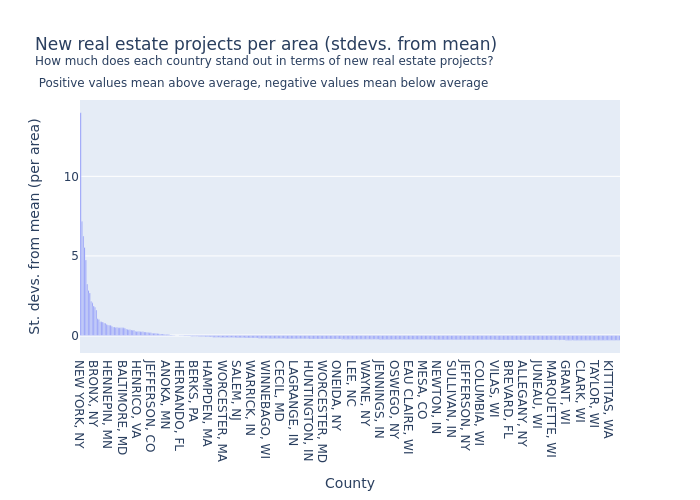
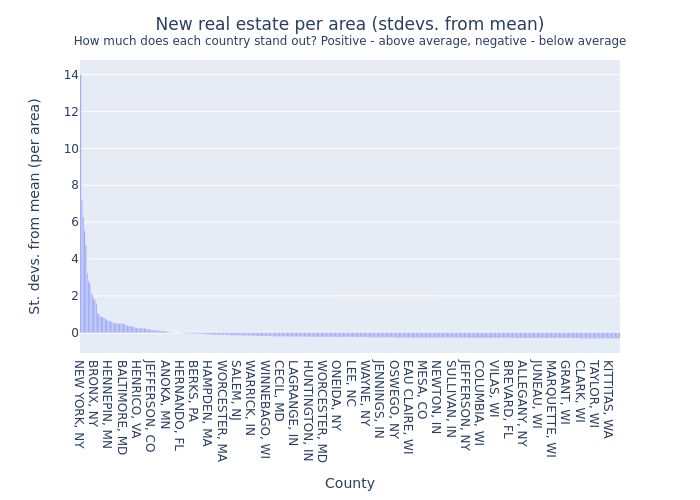
Regenerate Mardown with images

diff --git a/nimby-vs-yimby/README.md b/nimby-vs-yimby/README.md
@@ -190,8 +190,8 @@ from IPython.display import Image
 
 labels = {
     "county_state": "County",
-    "per_area": "Projects per square mile",
-    "per_capita": "Projects per capita",
+    "per_area": "New projects per square mile",
+    "per_capita": "New projects per capita",
     "per_capita_stdevs_from_mean": "St. devs. from mean (per capita)",
     "per_area_stdevs_from_mean": "St. devs. from mean (per area)"
 }
@@ -200,8 +200,13 @@ df_counts_by_county = df_counts_by_county.sort_values('per_capita', ascending=Fa
 fig = px.bar(df_counts_by_county, 
              x='county_state', 
              y='per_capita', 
-             title="New real estate projects per capita", 
              labels=labels)
+fig.update_layout(title={ # https://stackoverflow.com/a/67504387/1044147
+                 "text":"New real estate per capita", 
+                 "x": 0.5,
+                 "xanchor": "center",
+                 "yanchor": "top"
+             })
 fig.write_image("per_capita_by_county.png")
 Image(filename="per_capita_by_county.png")
 ```
@@ -220,8 +225,13 @@ Image(filename="per_capita_by_county.png")
 fig = px.bar(df_counts_by_county,
              x='county_state', 
              y='per_capita_stdevs_from_mean', 
-             title="New real estate sales per capita (stdevs. from mean)<br><sup>How much does each country stand out in terms of new real estate projects per capita?<br> Positive values mean above average, negative values mean below average</sup>", 
              labels=labels)
+fig.update_layout(title={
+                 "text": "New real estate per capita (stdevs. from mean)<br><sup>How much does each country stand out? Positive - above average, negative - below average</sup>", 
+                 "x": 0.5,
+                 "xanchor": "center",
+                 "yanchor": "top"
+             })
 fig.write_image("per_capita_stdevs_by_county.png")
 Image(filename="per_capita_stdevs_by_county.png")
 ```
@@ -246,8 +256,13 @@ df_best_per_capita = df_counts_by_county.sort_values('per_capita', ascending=Fal
 fig = px.bar(df_best_per_capita, 
              x="county_state", 
              y="per_capita", 
-             title="New real estate projects per capita<br><sub>Top 10 counties</sub>",
              labels=labels)
+fig.update_layout(title={
+                 "text":"New real estate per capita<br><sub>Top 10 counties</sub>",
+                 "x": 0.5,
+                 "xanchor": "center",
+                 "yanchor": "top"
+             })
 fig.write_image("top10_per_capita_by_county.png")
 Image(filename="top10_per_capita_by_county.png")
 ```
@@ -272,8 +287,13 @@ df_worst_per_capita = df_counts_by_county.sort_values('per_capita', ascending=Tr
 fig = px.bar(df_worst_per_capita,
              x="county_state",
              y="per_capita", 
-             title="New real estate projects per capita<br><sub>Bottom 10 counties</sub>",
              labels=labels)
+fig.update_layout(title={
+                "text": "New real estate per capita<br><sub>Bottom 10 counties</sub>",
+                "x": 0.5,
+                "xanchor": "center",
+                "yanchor": "top"
+             })
 fig.write_image("worst10_per_capita_by_county.png")
 Image(filename="worst10_per_capita_by_county.png")
 ```
@@ -302,8 +322,13 @@ df_counts_by_county = df_counts_by_county.sort_values('per_area', ascending=Fals
 fig = px.bar(df_counts_by_county, 
              x='county_state', 
              y='per_area', 
-             title="New real estate projects per area", 
              labels=labels)
+fig.update_layout(title={
+                 "text": "New real estate per area",
+                 "x": 0.5,
+                 "xanchor": "center",
+                 "yanchor": "top"
+             })
 fig.write_image("per_area_by_county.png")
 Image(filename="per_area_by_county.png")
 ```
@@ -323,8 +348,13 @@ df_counts_by_county = df_counts_by_county.sort_values('per_area_stdevs_from_mean
 fig = px.bar(df_counts_by_county,
              x='county_state', 
              y='per_area_stdevs_from_mean', 
-             title="New real estate projects per area (stdevs. from mean)<br><sup>How much does each country stand out in terms of new real estate projects?<br> Positive values mean above average, negative values mean below average</sup>", 
              labels=labels)
+fig.update_layout(title={
+                 "text": "New real estate per area (stdevs. from mean)<br><sup>How much does each country stand out? Positive - above average, negative - below average</sup>",
+                 "x": 0.5,
+                 "xanchor": "center",
+                 "yanchor": "top"
+             })
 fig.write_image("per_area_stdevs_by_county.png")
 Image(filename="per_area_stdevs_by_county.png")
 ```
@@ -344,8 +374,13 @@ df_best_per_area = df_counts_by_county.sort_values('per_area', ascending=False).
 fig = px.bar(df_best_per_area, 
              x="county_state", 
              y="per_area", 
-             title="New real estate projects per capita<br><sub>Top 10 counties</sub>",
              labels=labels)
+fig.update_layout(title={
+                 "text":"New real estate per area<br><sub>Top 10 counties</sub>",
+                 "x": 0.5,
+                 "xanchor": "center",
+                 "yanchor": "top"
+             })
 fig.write_image("top10_per_area_by_count.png")
 Image(filename="top10_per_area_by_count.png")
 ```
